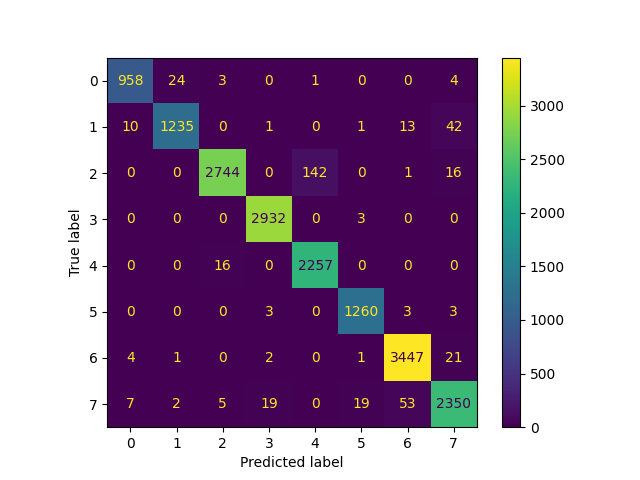
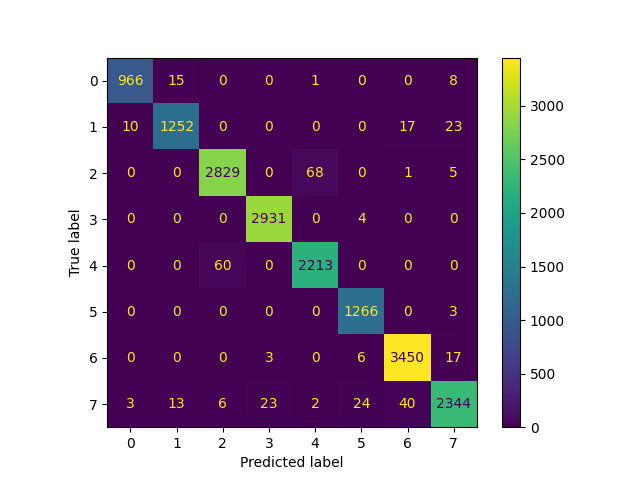
Change model parameters

diff --git a/BlazePose/model_train.py b/BlazePose/model_train.py
@@ -34,8 +34,8 @@ if __name__ == "__main__":
 
     model = tf.keras.models.Sequential([
         Input(shape=(18 * 2,)),
-        Dense(30, activation='relu'),
-        Dropout(0.4),
+        Dense(25, activation='relu'),
+        Dropout(0.2),
         BatchNormalization(),
         Dense(15, activation='relu'),
         BatchNormalization(),
@@ -53,7 +53,7 @@ if __name__ == "__main__":
         x_train,
         y_train,
         epochs=20,
-        batch_size=32,
+        batch_size=16,
         validation_data=(x_test, y_test),
         callbacks=[cp_callback, es_callback]
     )
